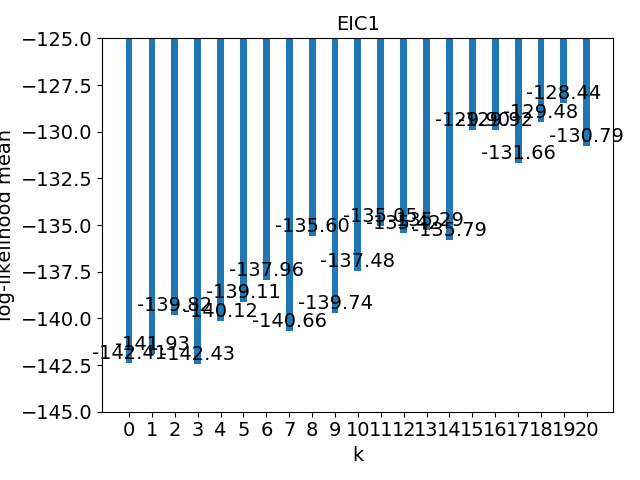
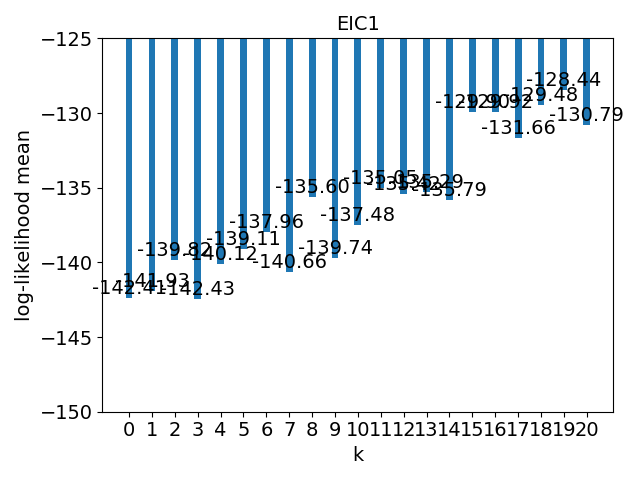
updated

diff --git a/sandbox/IC/slide/eic_ex_plot.py b/sandbox/IC/slide/eic_ex_plot.py
@@ -3,18 +3,18 @@ import matplotlib.pyplot as plt
 import numpy as np
 
 
-a = np.loadtxt('slide/eic_ex4-2.log')
-fname = 'slide/eic_ex4-4.png'
+a = np.loadtxt('slide/eic_ex4-1.log')
+fname = 'slide/eic_ex4-2.png'
 labels = a[:, 0].astype(int)
 samples = a[:, 2]
-title = 'EIC2'
+title = 'EIC1'
 xtitle = 'k'
 #ytitle = 'bias mean'
 ytitle = 'log-likelihood mean'
 yformat = '{:.2f}'
 fsz = 14
 #ylim = [0, 36]
-ylim = [-145, -125]
+ylim = [-150, -125]
 
 #-----
 
